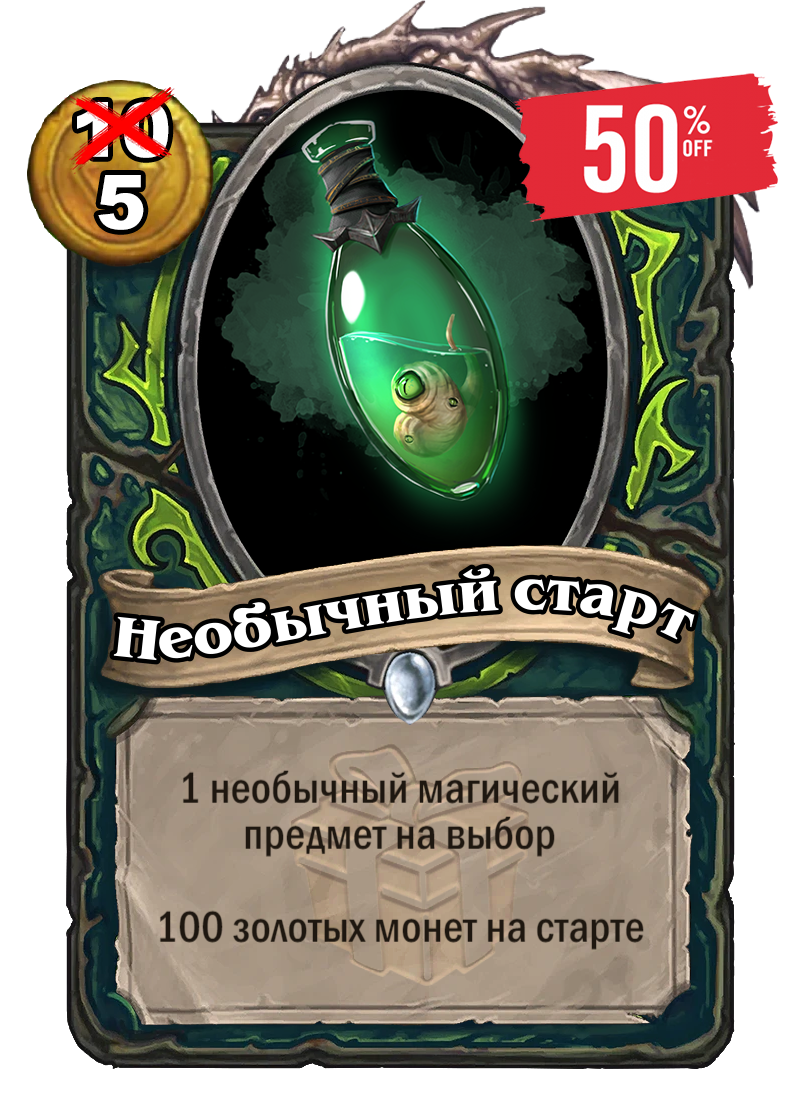
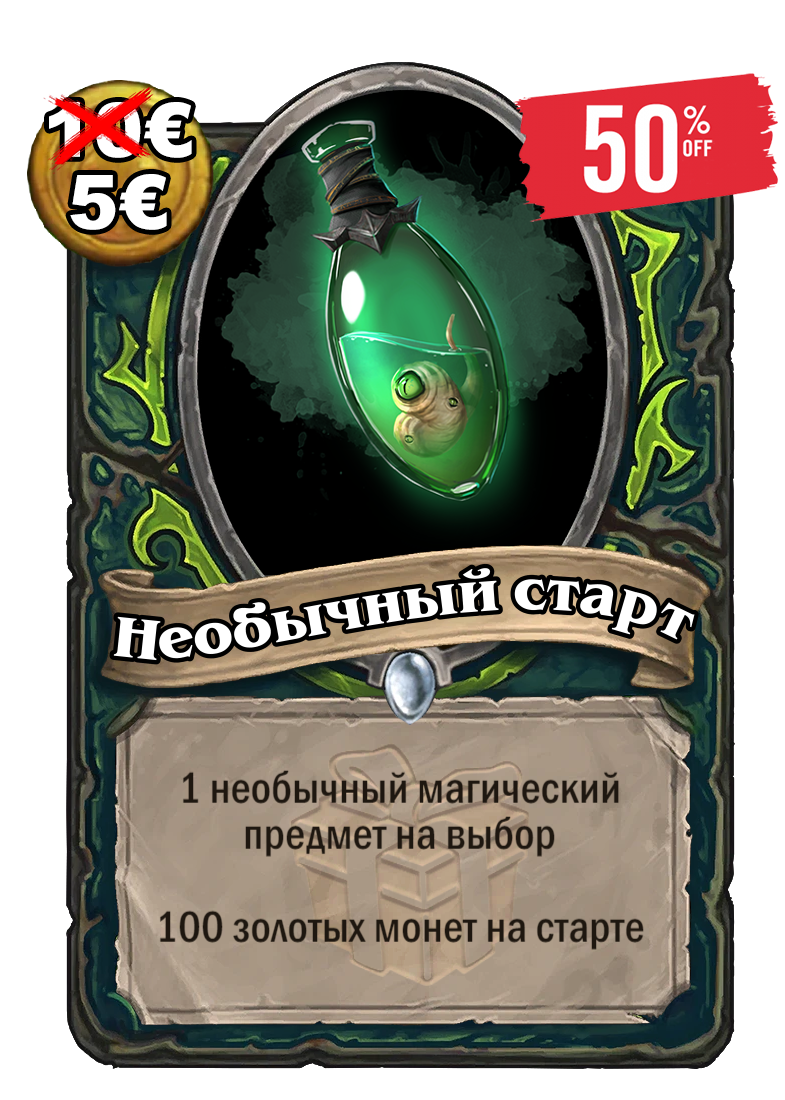
final touch

Changed region(s): [[0.3057, 0.0, 0.8255, 0.1236], [0.0306, 0.0618, 0.2752, 0.2164], [0.9172, 0.1545, 0.9783, 0.2782]]

diff --git a/index.html b/index.html
@@ -148,15 +148,16 @@
       </div>
 
       <div class="container sixth-container" id="page-6">
-        <h2>Стартовые наборы Д<span class="red">&</span>Д Джестера!</h2>
+        <h2 style="margin-bottom: 0;">Стартовые наборы Д<span class="red">&</span>Д Джестера</h2>
+		<h3 style="margin-bottom: 3vh;"><span class="red">Лимитированное предложение действует до старта кампании!</span></h3>
 		<div class="editions">
 			<a href="https://dnd.su/items/?search=&source=101%7C115%7C198%7C207%7C119%7C116%7C152%7C112%7C113%7C121%7C160%7C205%7C117%7C125%7C111%7C109&quality=1" target="_blank"><img class="edition" src="images/uncommon.png" alt=""></a>
 			<a href="https://dnd.su/items/?search=&source=101%7C115%7C198%7C207%7C119%7C116%7C152%7C112%7C113%7C121%7C160%7C205%7C117%7C125%7C111%7C109&quality=2" target="_blank"><img class="edition" src="images/rare.png" alt=""></a>
 			<a href="https://dnd.su/items/?search=&source=101%7C115%7C198%7C207%7C119%7C116%7C152%7C112%7C113%7C121%7C160%7C205%7C117%7C125%7C111%7C109&quality=3" target="_blank"><img class="edition" src="images/very-rare.png" alt=""></a>
 			<a href="https://dnd.su/items/?search=&source=101%7C115%7C198%7C207%7C119%7C116%7C152%7C112%7C113%7C121%7C160%7C205%7C117%7C125%7C111%7C109&quality=4" target="_blank"><img class="edition" src="images/legendary.png" alt=""></a>
 		</div>
-		<a href="https://www.privat24.ua/send/1qg1x" target="_blank"><img class="edition" src="images/buy.png" style="width: 15vw;height: 15wh;margin-top:1vh;"></a>
-		<p style="margin-top:1vh;">*Цены стартовых наборов в евро **При покупке на любую сумму получаешь 100 золотых в подарок!</p>
+		<a href="https://www.privat24.ua/send/1qg1x" target="_blank"><img class="edition" src="images/buy.png" style="width: 15vw;height: 15wh;margin-top:3vh;"></a>
+		<p style="margin-top:1vh;">*При покупке на любую сумму 100 золотых монет и специальная роль в дискорде в подарок!</p>
       </div>
 
       <div class="site-nav">
